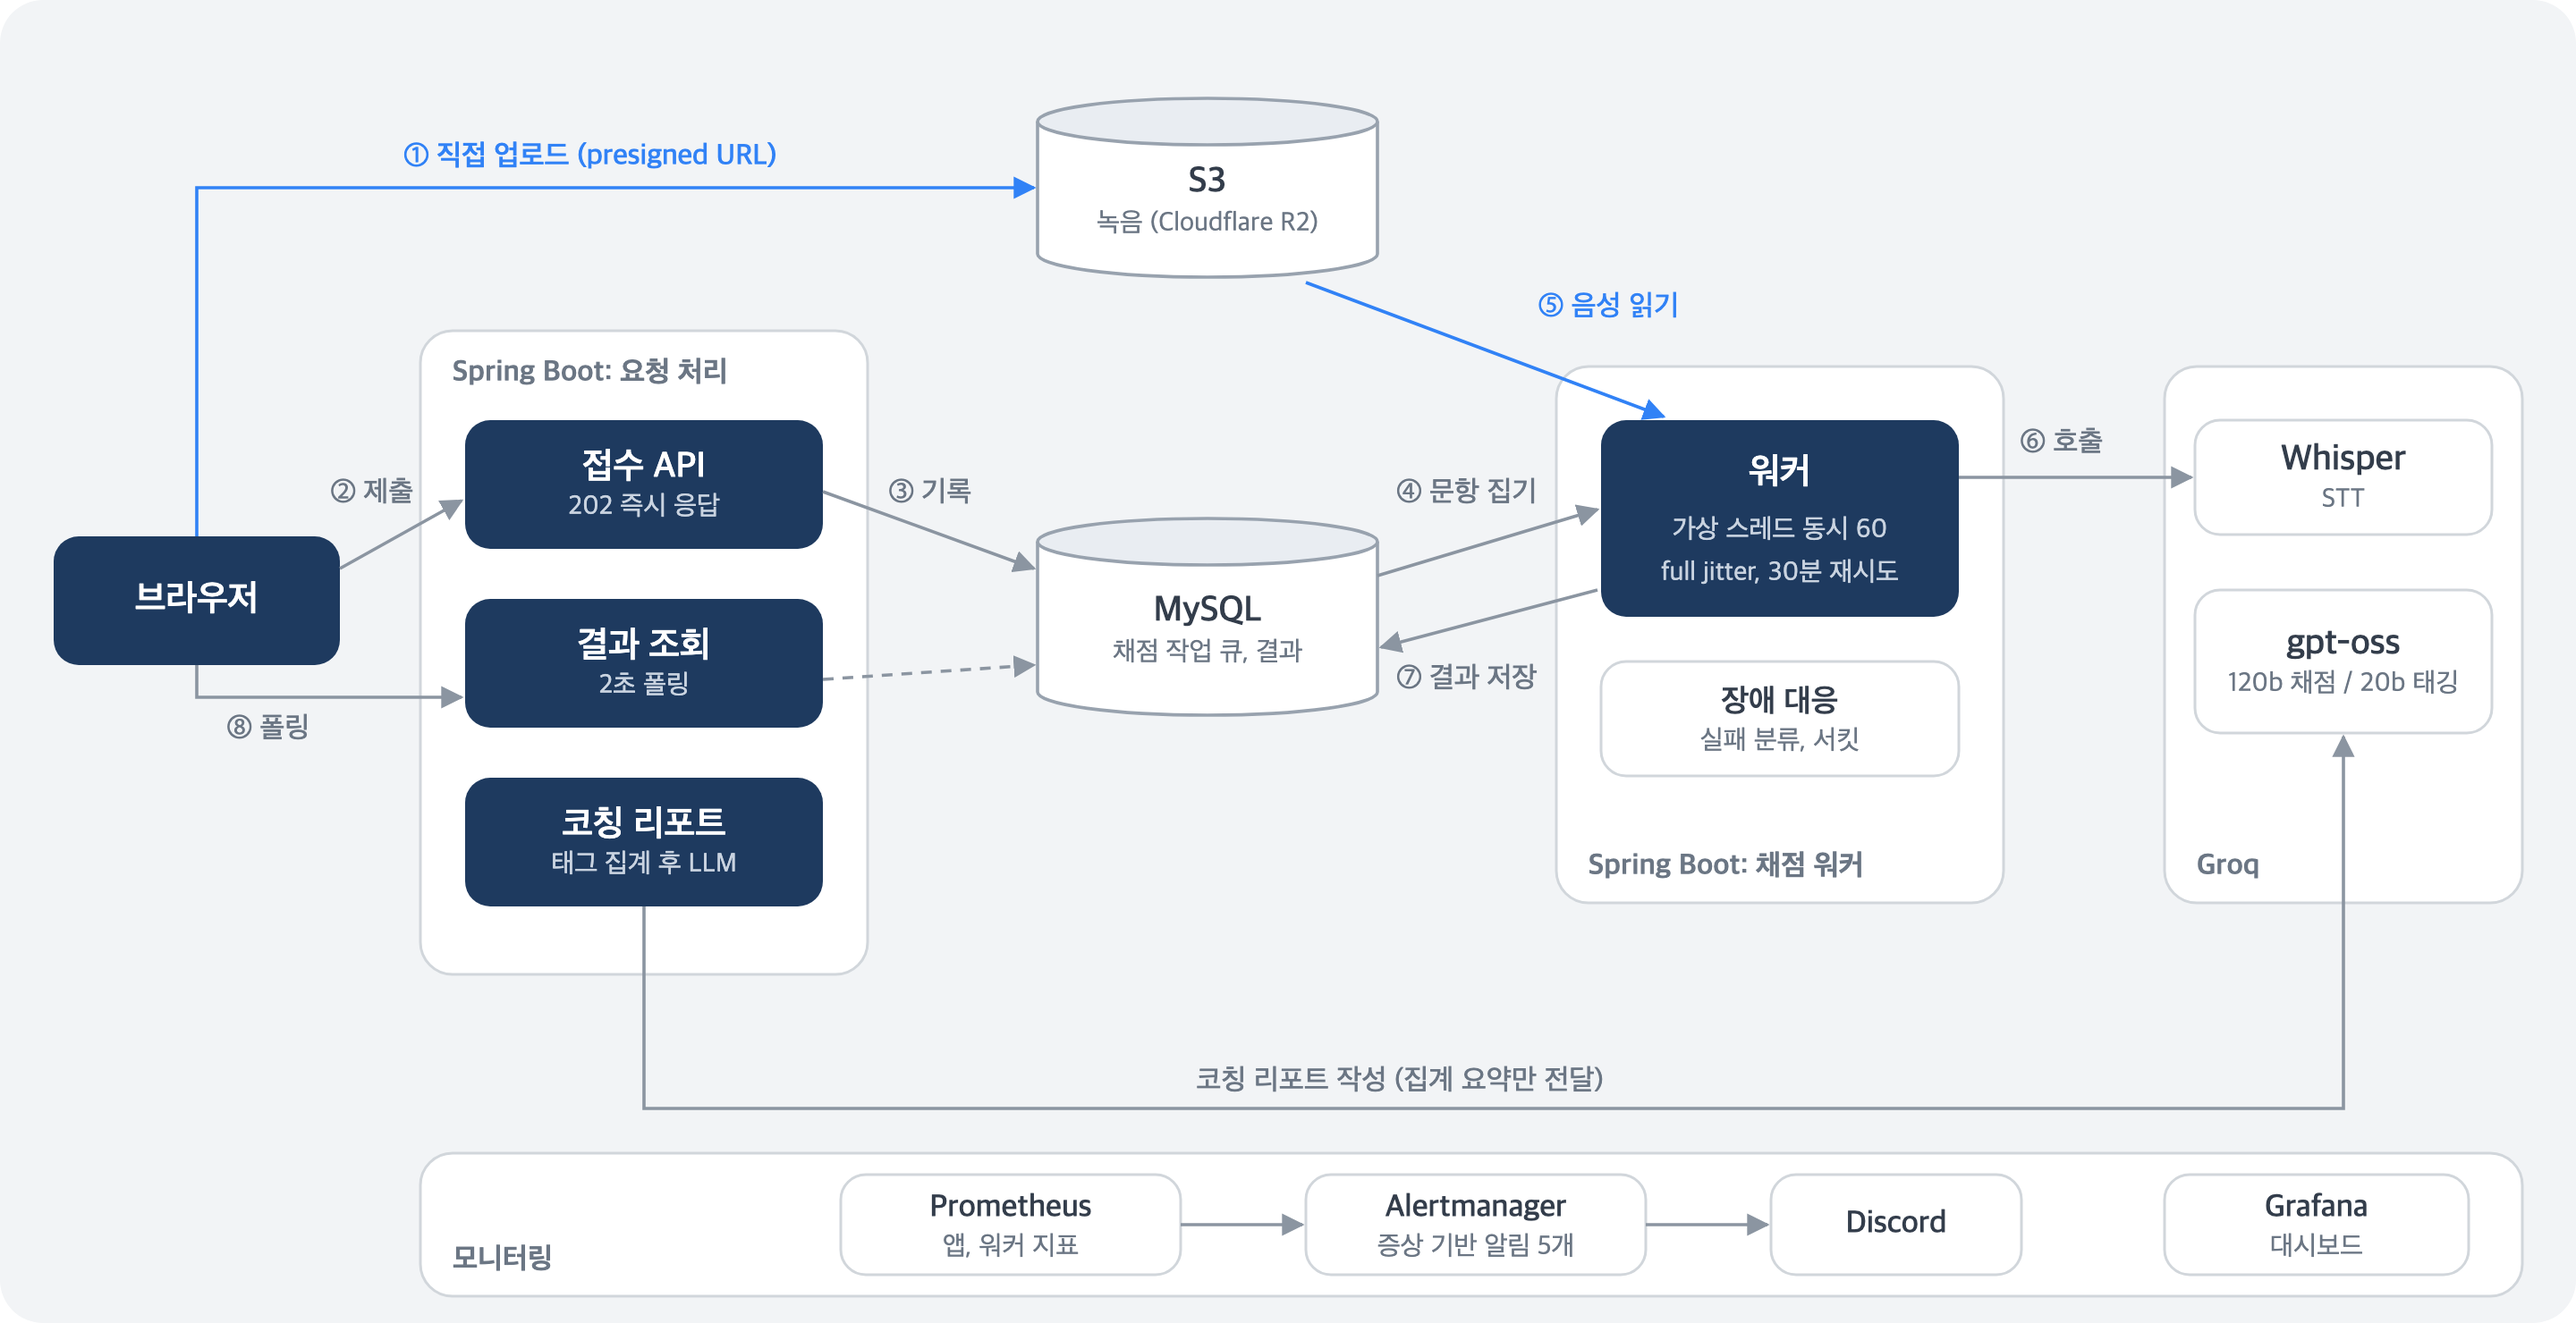
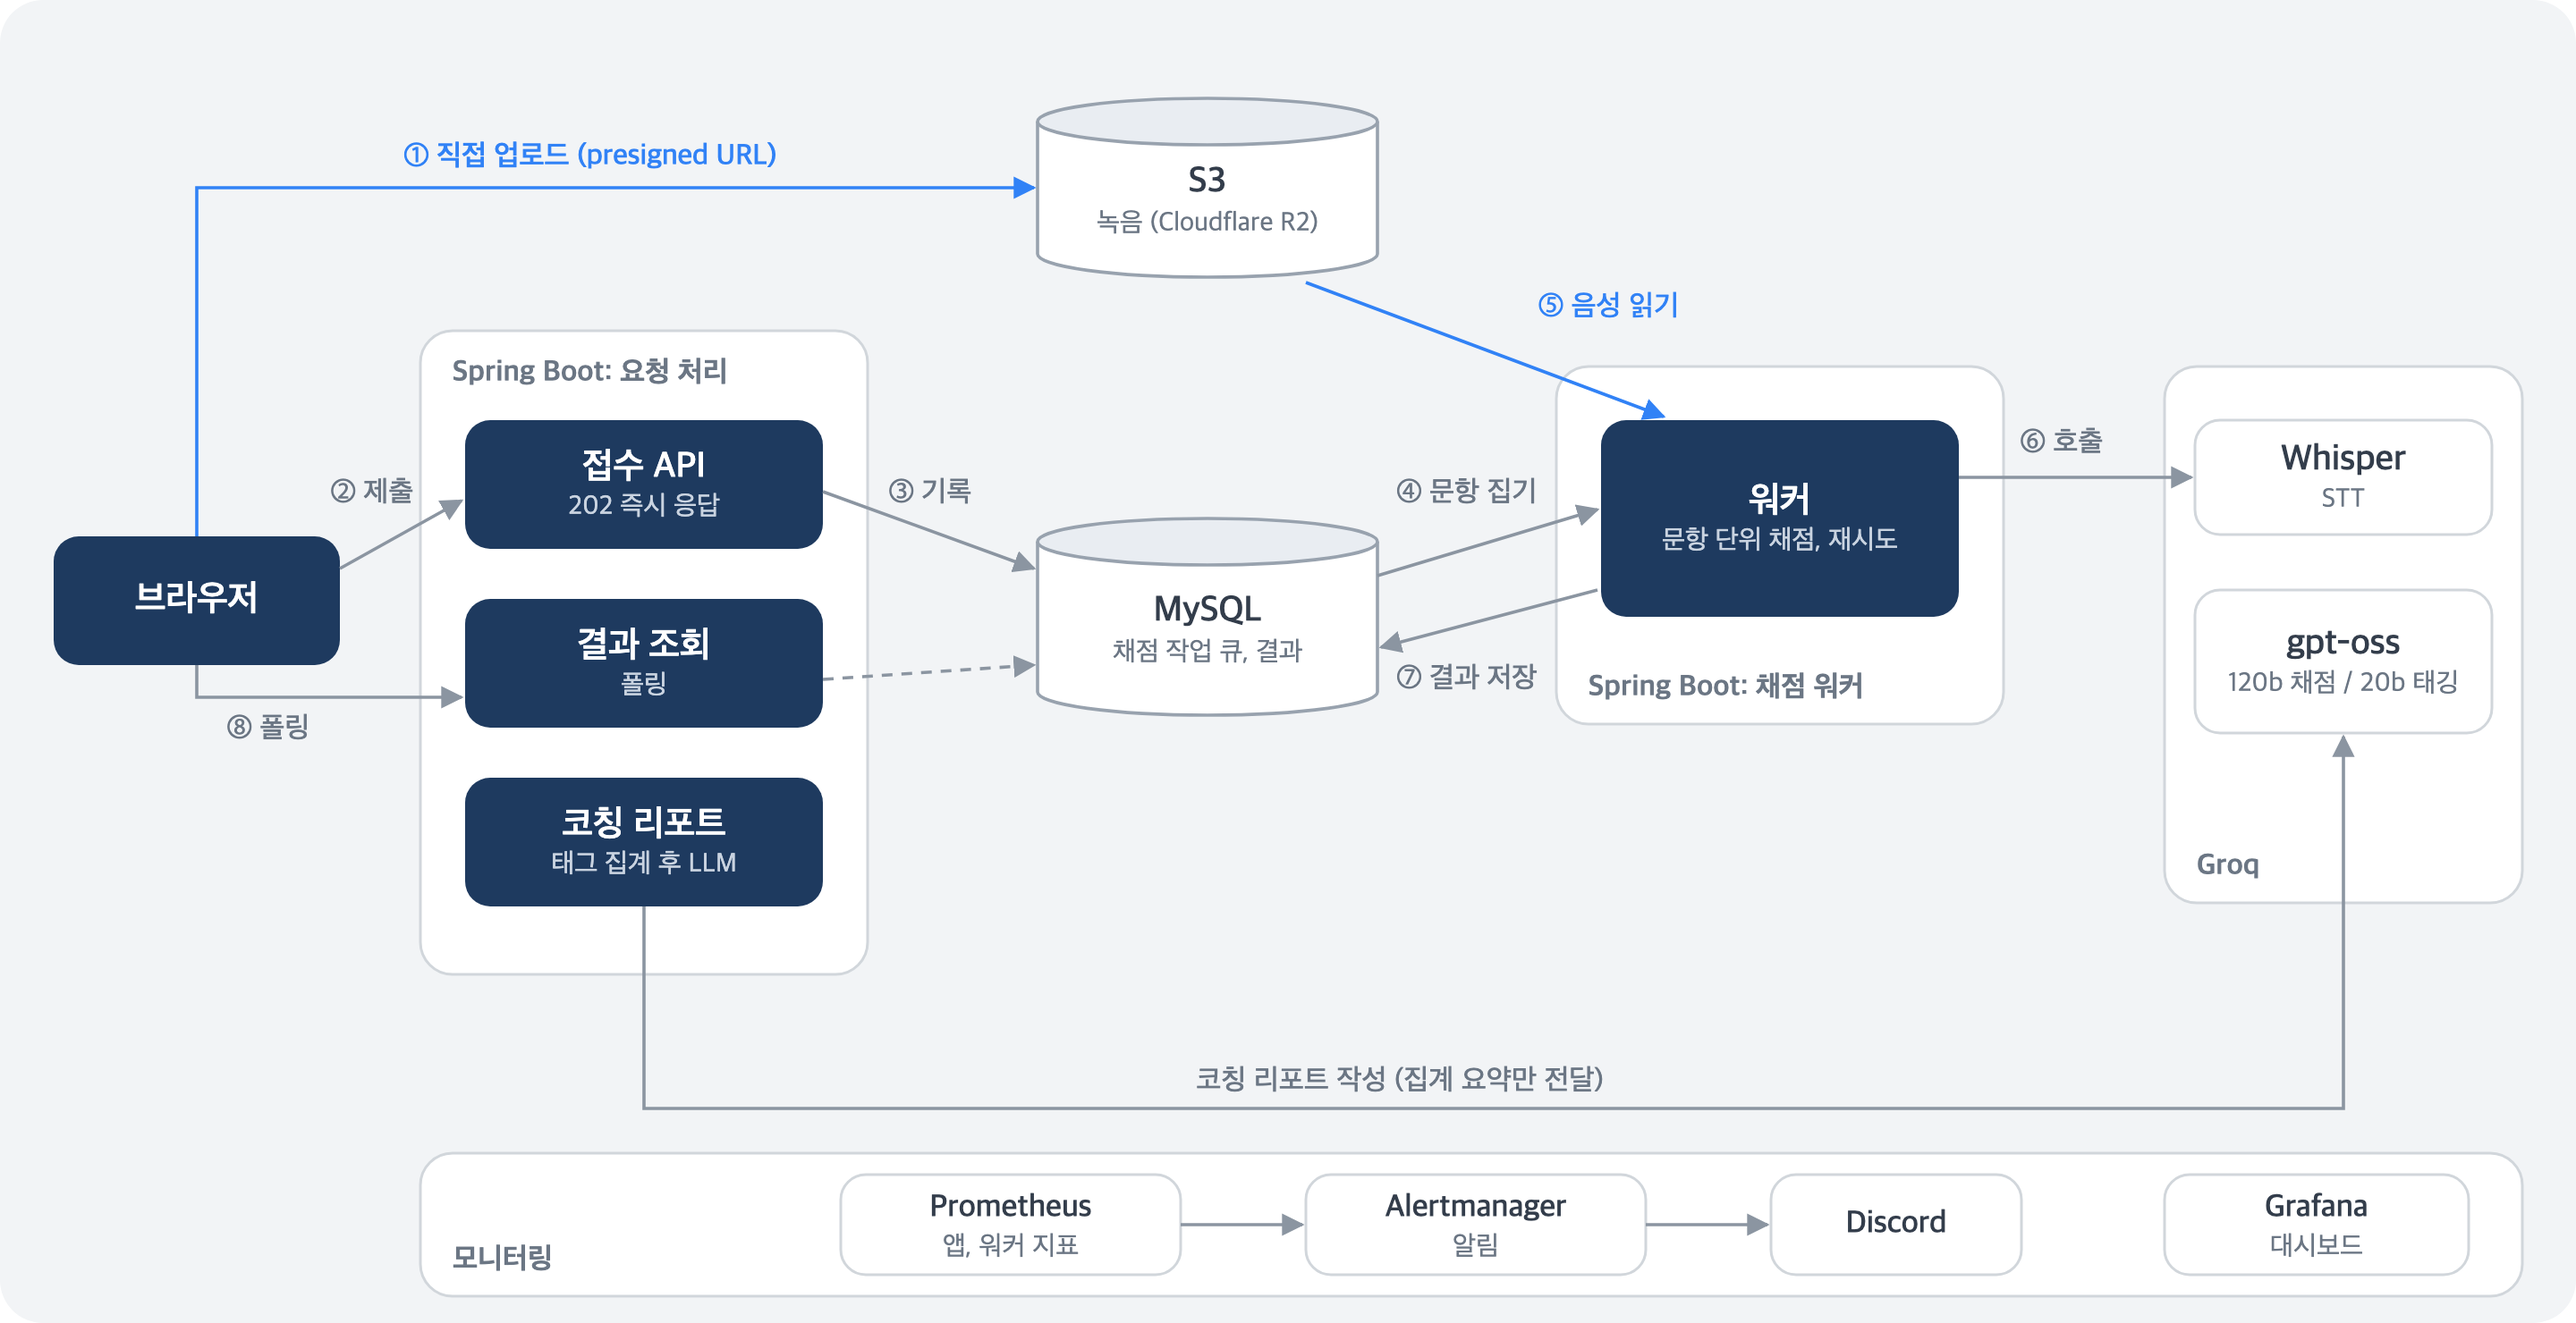
docs: 아키텍처 그림과 설명에서 정책 값(동시 60, 30분, 2초, 알림 개수) 제거 — 구조만

diff --git a/docs/images/architecture.py b/docs/images/architecture.py
@@ -11,15 +11,13 @@ def card(x, y, w, h, title, top=False):
 AX, WX, GX = 235, 870, 1210        # 요청 처리 카드, 워커 카드, Groq 카드의 x
 DB = 580                            # 저장소 x
 b += [card(AX, 185, 250, 360, 'Spring Boot: 요청 처리', top=True),
-      card(WX, 205, 250, 300, 'Spring Boot: 채점 워커'),
+      card(WX, 205, 250, 200, 'Spring Boot: 채점 워커'),
       card(GX, 205, 200, 300, 'Groq')]
 b += [box(30, 300, 160, 72, '브라우저'),
       box(AX + 25, 235, 200, 72, '접수 API', sub='202 즉시 응답'),
-      box(AX + 25, 335, 200, 72, '결과 조회', sub='2초 폴링'),
+      box(AX + 25, 335, 200, 72, '결과 조회', sub='폴링'),
       box(AX + 25, 435, 200, 72, '코칭 리포트', sub='태그 집계 후 LLM')]
-b += [rect(WX + 25, 235, 200, 110, C['navy']), text(WX + 125, 265, '워커', 16, 'white', 600),
-      text(WX + 125, 297, '가상 스레드 동시 60', 12, '#C9D3E0'), text(WX + 125, 321, 'full jitter, 30분 재시도', 12, '#C9D3E0'),
-      box(WX + 25, 370, 200, 64, '장애 대응', kind='white', size=14, sub='실패 분류, 서킷')]
+b += [box(WX + 25, 235, 200, 110, '워커', sub='문항 단위 채점, 재시도')]
 b += [box(GX + 17, 235, 166, 64, 'Whisper', kind='white', sub='STT'),
       box(GX + 17, 330, 166, 80, 'gpt-oss', kind='white', sub='120b 채점 / 20b 태깅')]
 b += [cylinder(DB, 55, 190, 100, 'S3', sub='녹음 (Cloudflare R2)'),
@@ -41,7 +39,7 @@ b += [path(f'M110,300 L110,105 L{DB-2},105', 'blue'), text(330, 88, '① 직접 
 # 모니터링
 b += [card(AX, 645, 1175, 80, '모니터링'),
       box(470, 657, 190, 56, 'Prometheus', kind='white', size=14, sub='앱, 워커 지표'),
-      box(730, 657, 190, 56, 'Alertmanager', kind='white', size=14, sub='증상 기반 알림 5개'),
+      box(730, 657, 190, 56, 'Alertmanager', kind='white', size=14, sub='알림'),
       box(990, 657, 140, 56, 'Discord', kind='white', size=14),
       box(1210, 657, 170, 56, 'Grafana', kind='white', size=14, sub='대시보드'),
       arrow(660, 685, 728, 685), arrow(920, 685, 988, 685)]
